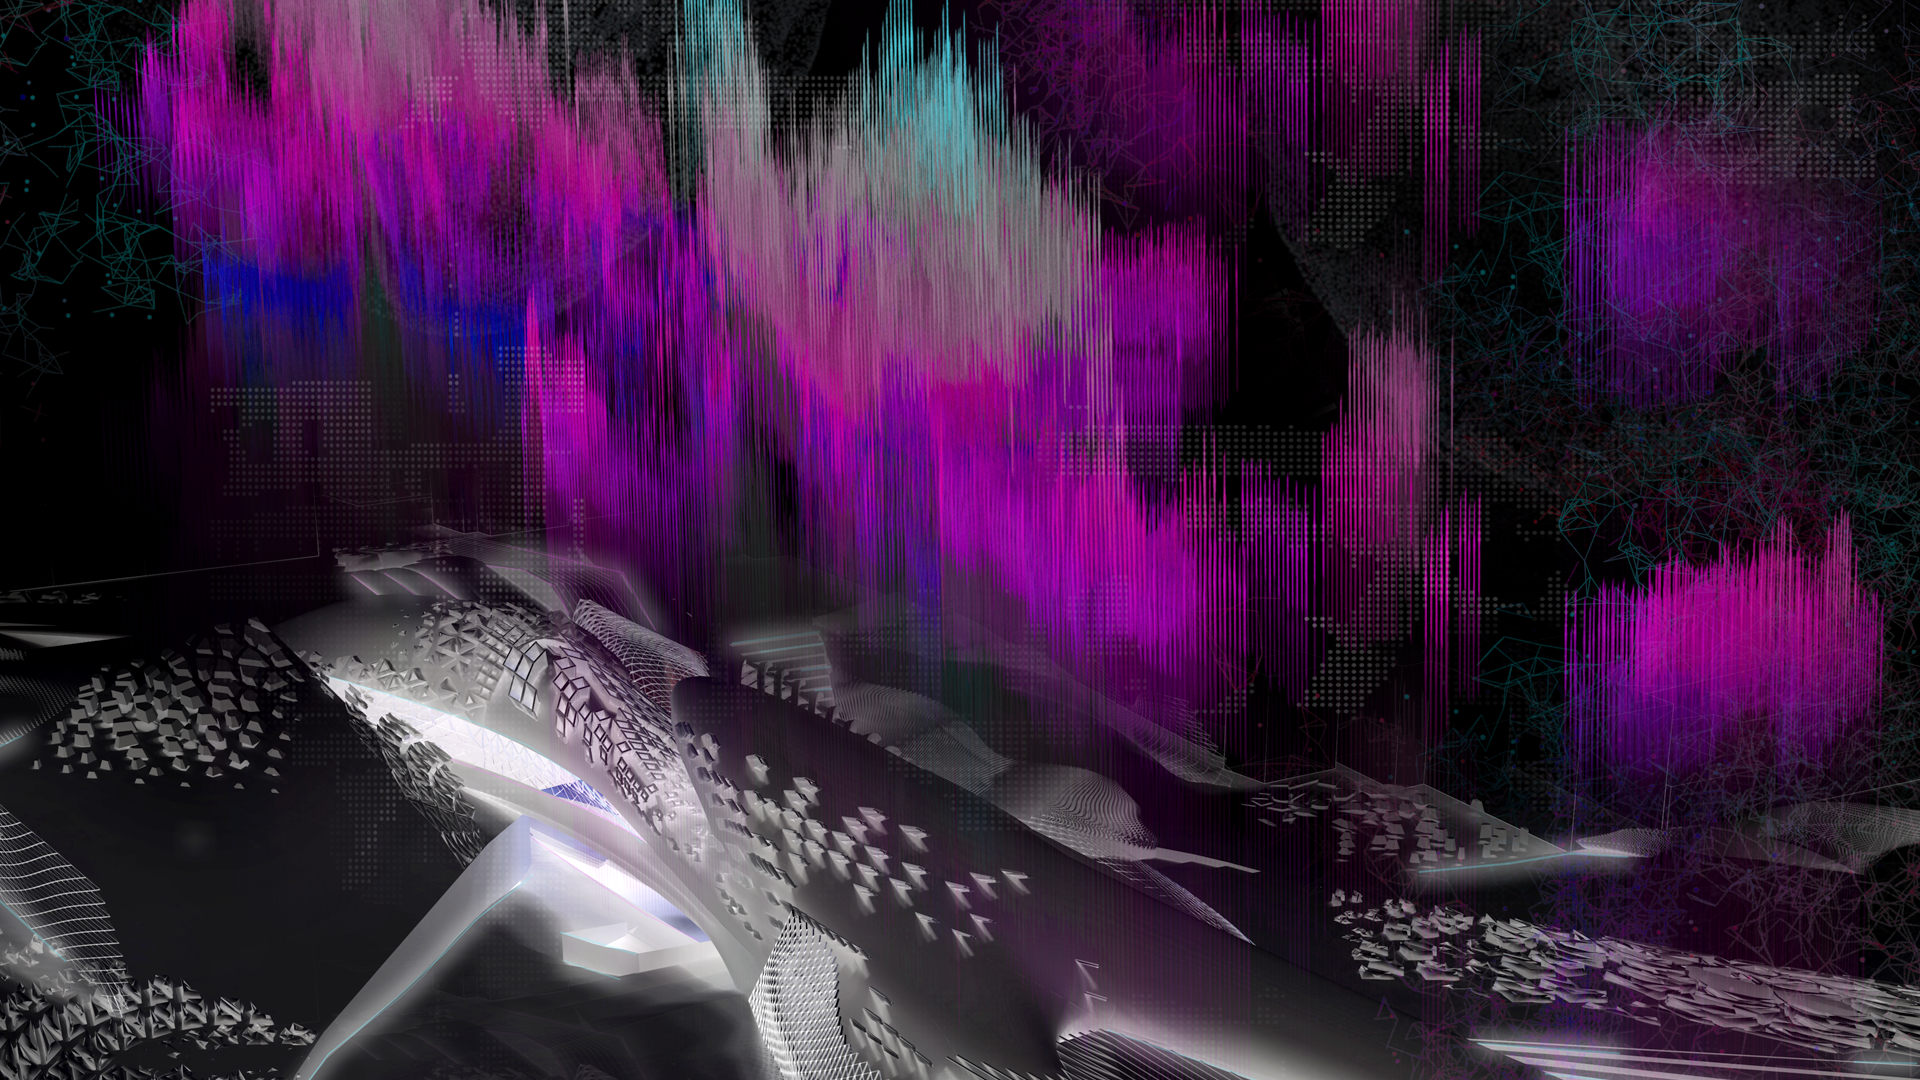
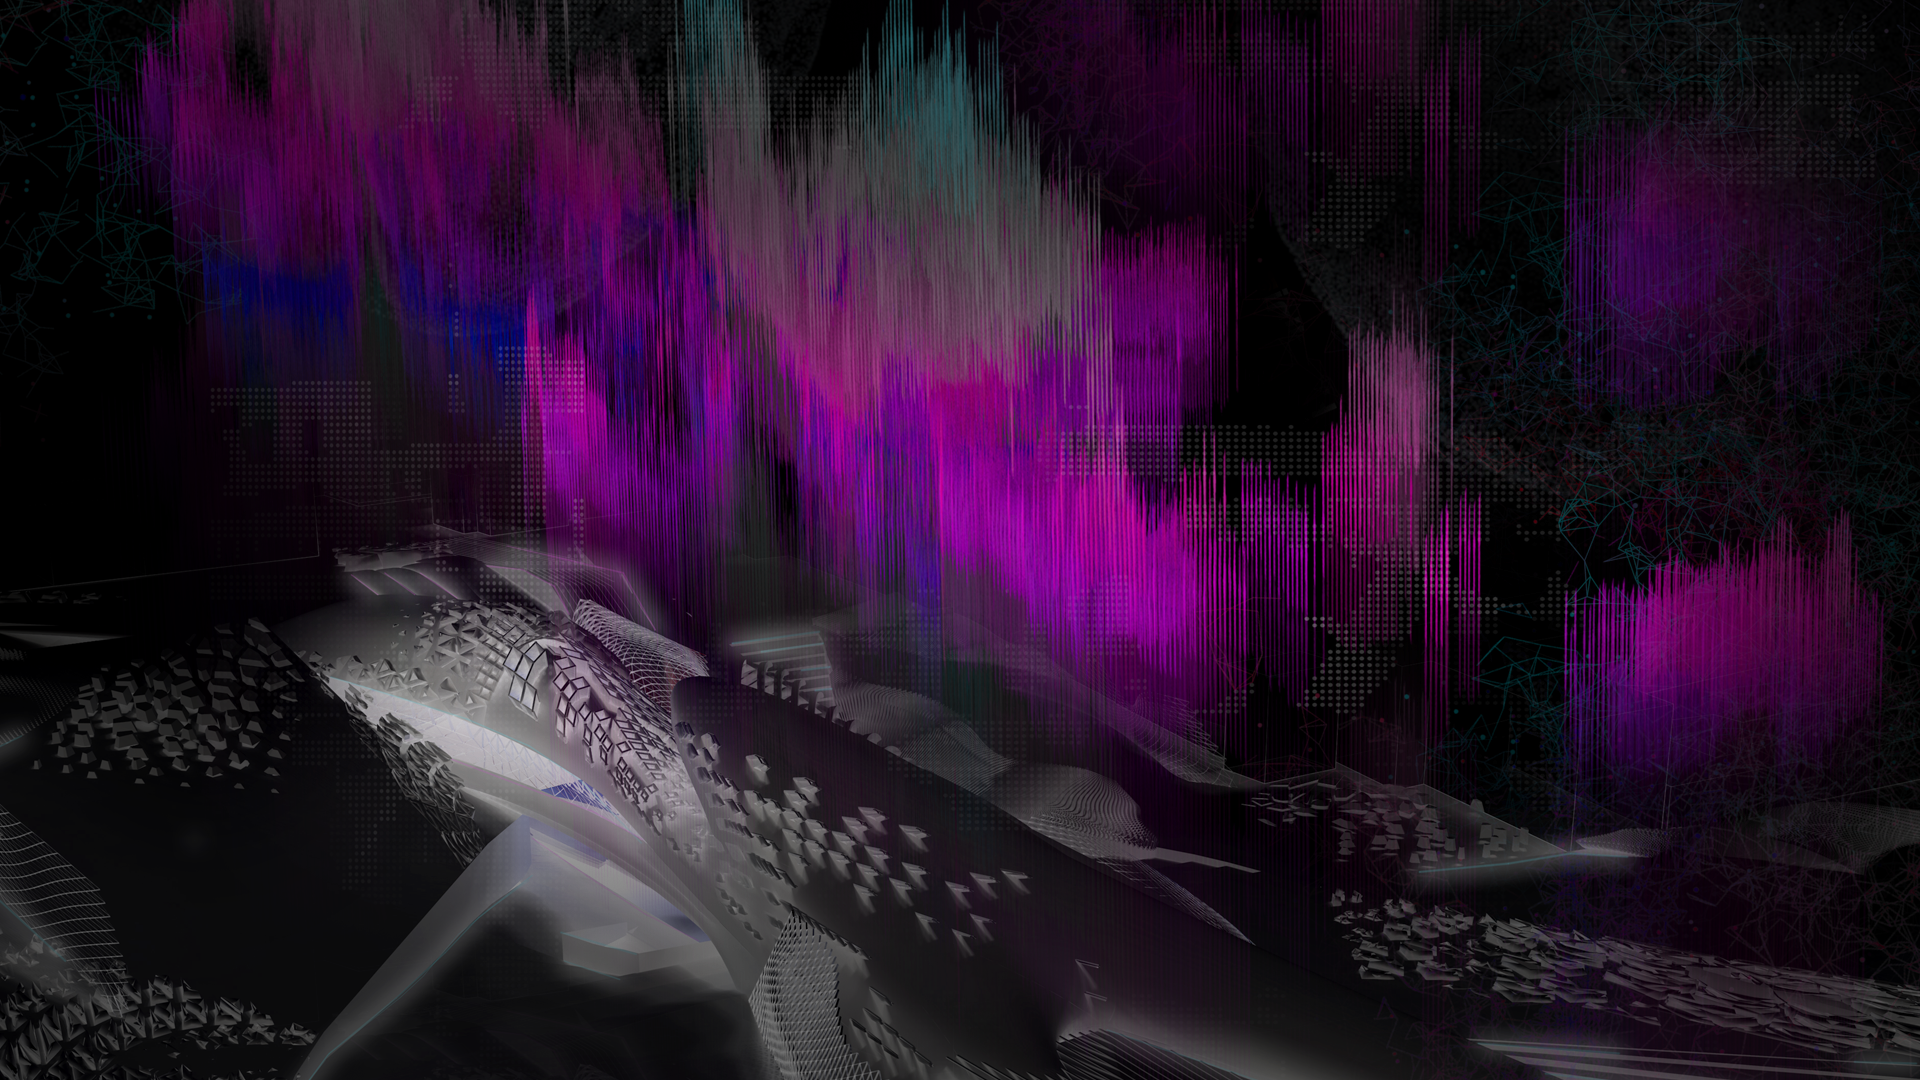
commit

diff --git a/DecodeCollective/styles/Style.css b/DecodeCollective/styles/Style.css
@@ -1167,6 +1167,7 @@ div {
     background-size: cover;
     background-position: 50% 100%;
     border-radius: 0%;
+    /* box-shadow: inset 0px 10px 150px 10px rgba(0,0,0,0.8); */
 }
 .i:hover {
     -webkit-transition: all 0s linear;
@@ -1186,6 +1187,7 @@ div {
     background-size: cover;
     background-repeat: no-repeat;
     background-image: url(../images/perceptiveDatascapes/projectImageBack.png);
+    box-shadow: inset 0px 0px 150px 60px rgba(0,0,0,0.8);
 }
 
 #rawbot-project-img {
@@ -1232,6 +1234,7 @@ div {
     background-size: cover;
     background-repeat: no-repeat;
     background-image: url(../images/urbanGrowth/urbanGrowthPJimg.png);
+    box-shadow: inset 0px 0px 150px 60px rgba(0,0,0,0.9);
 }
 
 #highways1 {
